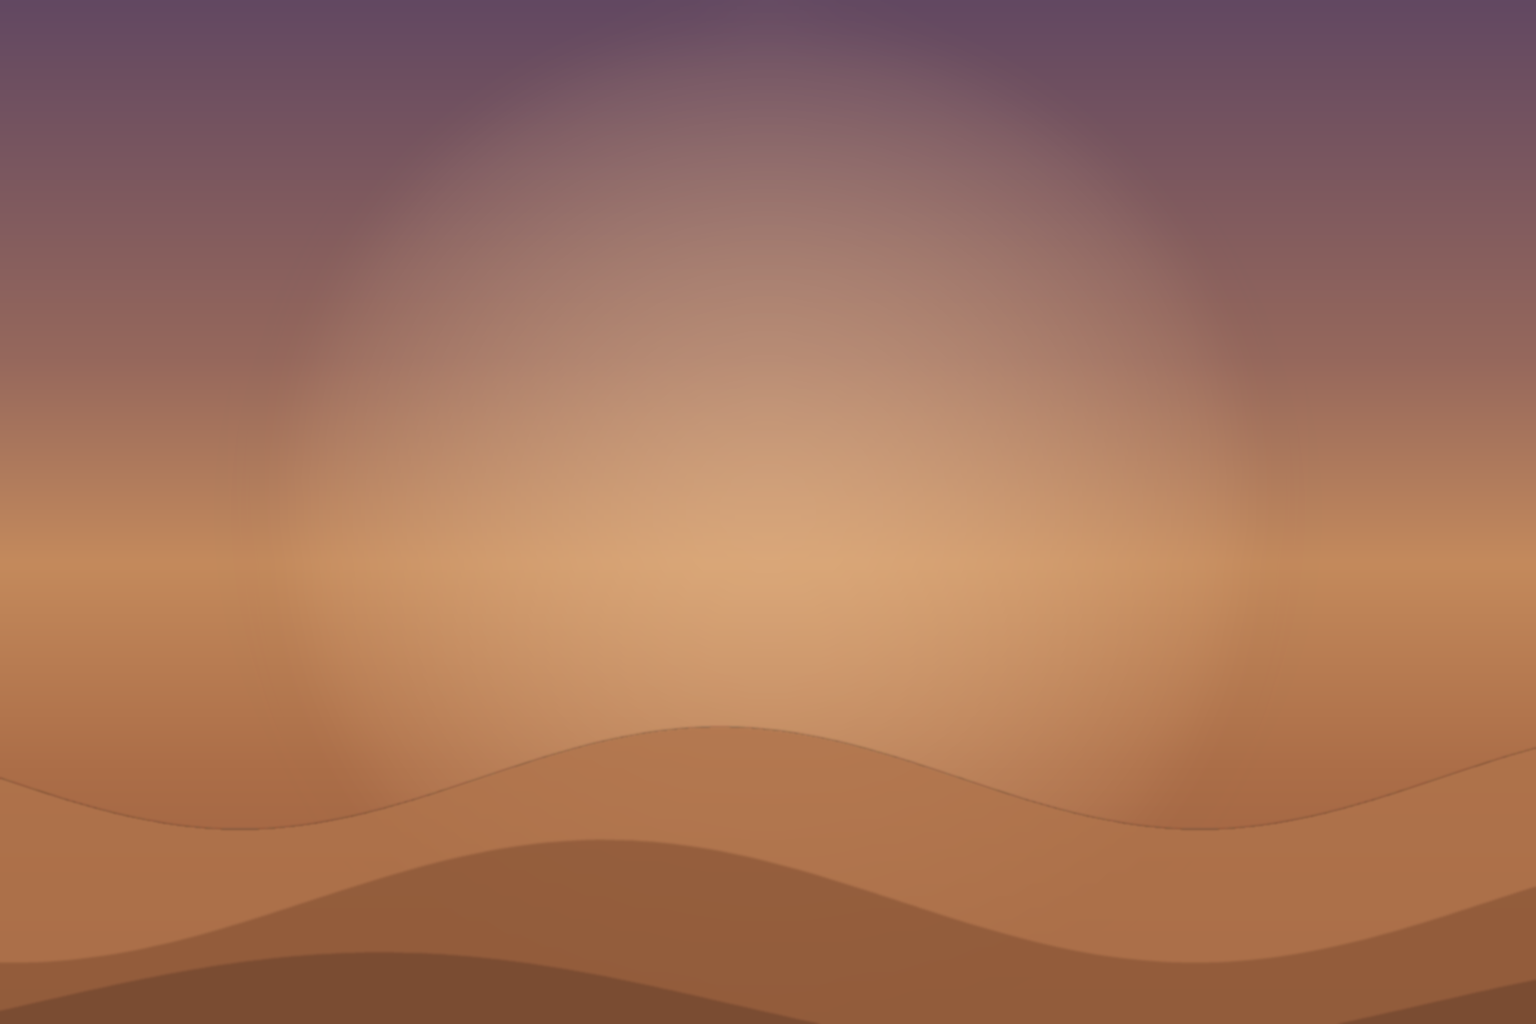
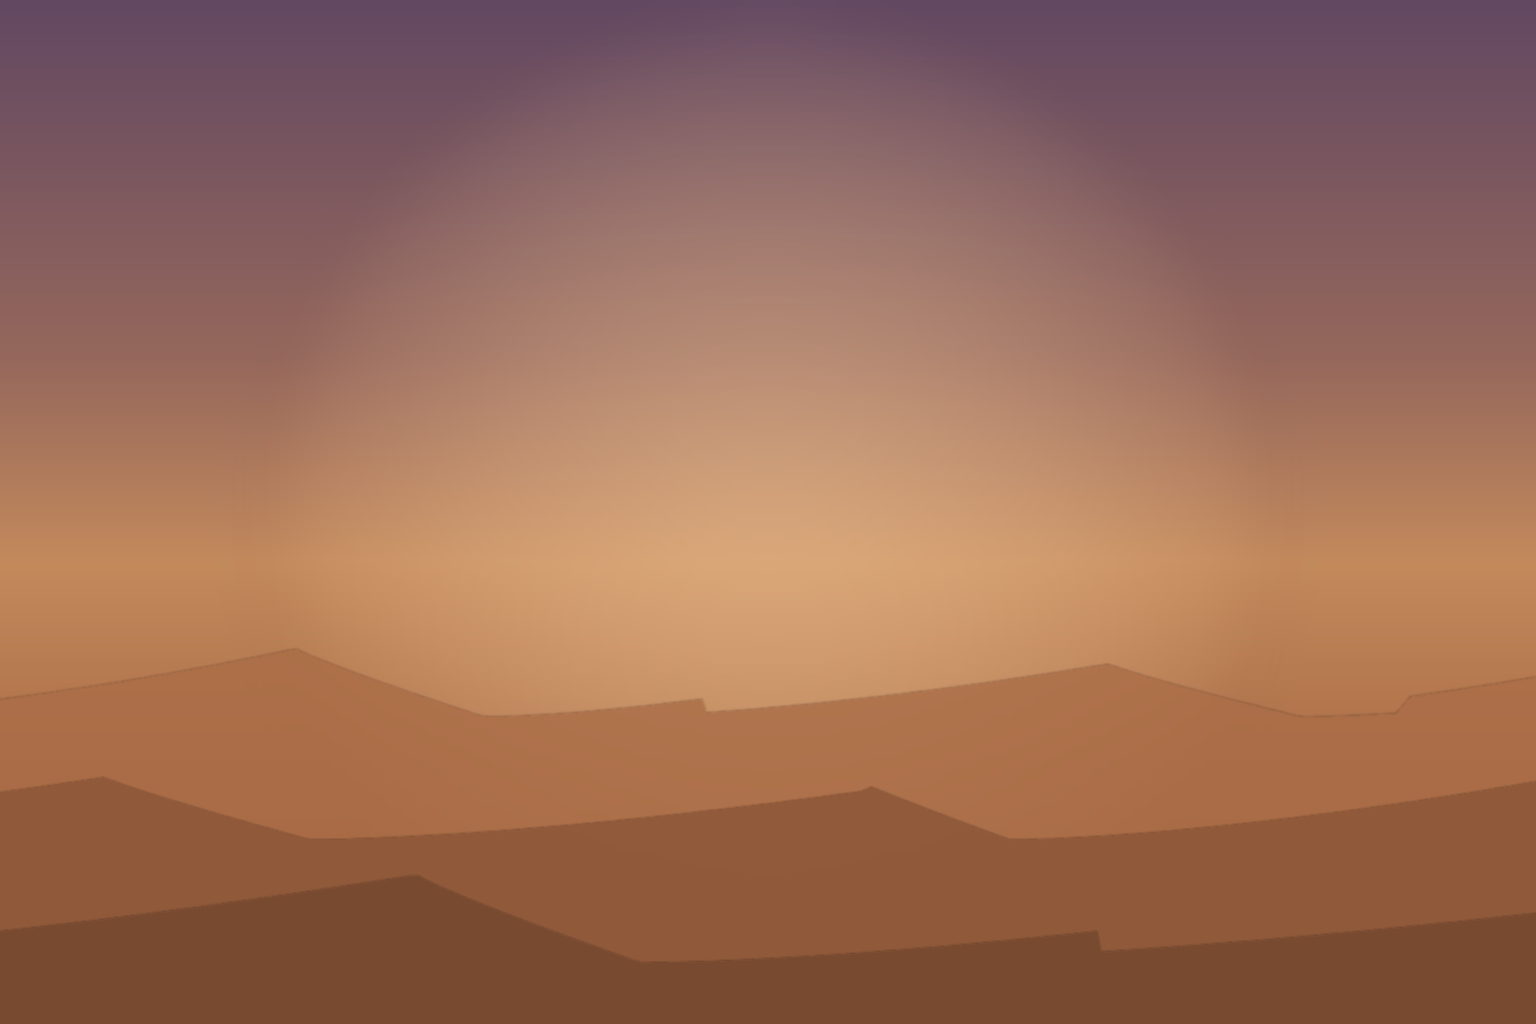
feat(pomodoro): 重做 3 张新场景背景图 (用户反馈轮)
- 沙漠: 沙丘改非对称风蚀剖面 (缓迎风坡+陡落沙面) + 逐脊起伏 + 斜向剪切, 脱离海波形态
- 雪原: 冷蓝天空 + 大气透视远山 + 雪浪蓝影, 摆脱全白留白
- 云海: 丰富日出天色 (靛→紫→玫→金) + 低垂日出光核 + 受光积云顶 + 高空散云
- 星夜: 右上角模糊光晕 → 清晰小月亮 (build_moon: 月面+淡晕)

Changed region(s): [[0.0, 0.6562, 1.0, 1.0]]

diff --git a/tools/export-scenes.py b/tools/export-scenes.py
@@ -227,6 +227,60 @@ def build_bank(layer: dict) -> Image.Image:
     return overlay.filter(ImageFilter.GaussianBlur(radius=layer.get("blur", 8)))
 
 
+def _hash_unit(v: int) -> float:
+    """Deterministic 0..1 hash of an integer (per-ridge variation)."""
+    x = (v * 1103515245 + 12345) & 0x7FFFFFFF
+    return ((x >> 16) & 0x7FFF) / 32768.0
+
+
+def build_dunes(layers: list[dict]) -> Image.Image:
+    """Asymmetric wind-blown sand dune ridges (SS x for AA).
+
+    Each layer: base_y/amp/freq/phase/skew/color/alpha/blur/shear/seed. The
+    profile is a skewed triangle wave — a long gentle windward climb
+    (fraction `skew` of the period) up to a sharp crest, then a short steep
+    slip face. Each ridge gets a seeded height/phase jitter (so the field is
+    not a uniform repeating pattern) and the whole layer shears diagonally
+    (`shear`) — dunes, not ocean swell (build_waves' symmetric, parallel,
+    horizontal sinusoid banks).
+    """
+    w, h = WIDTH * SS, HEIGHT * SS
+    result = Image.new("RGBA", SIZE, (0, 0, 0, 0))
+    for layer in layers:
+        overlay = Image.new("RGBA", (w, h), (0, 0, 0, 0))
+        draw = ImageDraw.Draw(overlay)
+        base_y = layer["base_y"] * h
+        amp = layer["amp"] * h
+        freq = layer["freq"]
+        phase = layer.get("phase", 0.0)
+        skew = layer.get("skew", 0.72)
+        shear = layer.get("shear", 0.0)
+        seed = layer.get("seed", 0xD00)
+        steps = 240
+        pts = []
+        # 扩展采样范围覆盖斜切偏移, 保证脊线剪切后仍铺满全宽 (不露画布边缘)。
+        x0 = -0.20 * w
+        x1 = 1.20 * w
+        for i in range(steps + 1):
+            x = x0 + (x1 - x0) * i / steps
+            ridge = int(x / w * freq)
+            j = _hash_unit(ridge + seed)
+            amp_i = amp * (0.72 + 0.56 * j)  # 每道沙丘高度不同
+            t = (x / w * freq + phase + 0.35 * j) % 1.0
+            if t < skew:
+                prof = (t / skew) ** 1.6  # 缓长迎风坡, 靠近脊线加速抬升
+            else:
+                prof = 1.0 - ((t - skew) / (1.0 - skew)) ** 0.9  # 陡短落沙面
+            y = base_y - amp_i * prof
+            xs = x + shear * (base_y - y)  # 斜向剪切: 脊线倾斜, 非水平平行
+            pts.append((xs, y))
+        draw.polygon(pts + [(w, h), (0, h)], fill=(*layer["color"], layer["alpha"]))
+        overlay = overlay.resize(SIZE, Image.LANCZOS)
+        overlay = overlay.filter(ImageFilter.GaussianBlur(radius=layer.get("blur", 1.0)))
+        result = Image.alpha_composite(result, overlay)
+    return result
+
+
 def build_trees(layers: list[dict]) -> Image.Image:
     """Forest treelines: dense rows of conifer triangles (SS x for AA).
 
@@ -355,14 +409,34 @@ def build_stars(cfg: dict) -> Image.Image:
     return overlay.filter(ImageFilter.GaussianBlur(radius=0.4))
 
 
+def build_moon(cfg: dict) -> Image.Image:
+    """A soft pale moon: faint halo + crisp-but-soft disc (SS x for AA).
+
+    Reads as a moon, not an unexplained glow — the disc gives it a clear
+    face and the halo a night atmosphere. Kept small and high in the sky
+    (out of the center countdown region).
+    """
+    halo = radial_overlay(
+        cfg["color"], cfg["center"], cfg["radius"] * 2.4, cfg["halo_peak"], falloff=2.0
+    )
+    w, h = WIDTH * SS, HEIGHT * SS
+    disc = Image.new("RGBA", (w, h), (0, 0, 0, 0))
+    cx, cy = cfg["center"][0] * w, cfg["center"][1] * h
+    r = cfg["radius"] * w
+    ImageDraw.Draw(disc).ellipse([cx - r, cy - r, cx + r, cy + r], fill=(*cfg["color"], 255))
+    disc = disc.resize(SIZE, Image.LANCZOS).filter(ImageFilter.GaussianBlur(radius=1.5))
+    return Image.alpha_composite(halo, disc)
+
+
 def build_clouds(layers: list[dict]) -> Image.Image:
-    """Cloud sea (viewer above the clouds): solid bank + fluffy top bumps.
+    """Cloud sea (viewer above the clouds): solid bank + cumulus top bumps.
 
     Each layer: base_y/amp/freq/phase/color/alpha/blur feed `build_bank`
-    (solid bank below a wavy top edge), plus `seed`/`r_min`/`r_max`/`step`
-    for overlapping elliptical bumps along the top edge — reads as one
-    continuous cloud field with a soft, irregular horizon rather than
-    isolated puffs. Layers composite far-to-near; far layers lighter/blurrier.
+    (solid mass below a wavy top edge), plus `seed`/`r_min`/`r_max`/`step`
+    for dense overlapping elliptical bumps and `hl` (highlight color) for a
+    small sunlit crest on each bump — reads as one continuous cloud field
+    with a cumulus top and warm-lit ridges, not a flat band.
+    Layers composite far-to-near; far layers lighter/blurrier.
     """
     result = Image.new("RGBA", SIZE, (0, 0, 0, 0))
     for layer in layers:
@@ -381,25 +455,67 @@ def build_clouds(layers: list[dict]) -> Image.Image:
         amp = layer["amp"] * h
         freq = layer["freq"]
         phase = layer.get("phase", 0.0)
-        r_min = layer.get("r_min", 0.08) * w
-        r_max = layer.get("r_max", 0.18) * w
-        step = w * layer.get("step", 0.10)
+        r_min = layer.get("r_min", 0.06) * w
+        r_max = layer.get("r_max", 0.14) * w
+        step = w * layer.get("step", 0.05)
+        hl = layer.get("hl", layer["color"])
         x = -r_max
         i = 0
         while x < w + r_max:
             cy = base_y + amp * math.sin(2.0 * math.pi * freq * i * step / w + phase)
             r = r_min + rnd() * (r_max - r_min)
-            a = int(layer["alpha"] * (0.75 + 0.25 * rnd()))
+            a = int(layer["alpha"] * (0.7 + 0.3 * rnd()))
             draw.ellipse(
-                [x - r, cy - r * 0.42, x + r, cy + r * 0.42],
+                [x - r, cy - r * 0.5, x + r, cy + r * 0.5],
                 fill=(*layer["color"], a),
             )
-            x += step * (0.8 + rnd() * 0.6)
+            # 顶部受光: 更小更亮的泡叠在主泡上缘 (阳光来自上方)。
+            hr = r * (0.45 + rnd() * 0.25)
+            ha = int(a * 0.85)
+            draw.ellipse(
+                [x - hr, cy - r * 0.55 - hr * 0.5, x + hr, cy - r * 0.55 + hr * 0.5],
+                fill=(*hl, ha),
+            )
+            x += step * (0.75 + rnd() * 0.5)
             i += 1
         overlay = overlay.resize(SIZE, Image.LANCZOS)
         overlay = overlay.filter(ImageFilter.GaussianBlur(radius=layer.get("blur", 8)))
         bank = Image.alpha_composite(bank, overlay)
         result = Image.alpha_composite(result, bank)
+    return result
+
+
+def build_puffs(layers: list[dict]) -> Image.Image:
+    """Scattered cumulus puffs floating in the sky (SS x for AA), no bank.
+
+    Each layer: count/y_lo/y_hi (band), r_min/r_max (puff width fractions),
+    color/alpha/blur/seed. Small soft ellipses read as isolated high clouds;
+    keep bands out of the center text region where possible.
+    """
+    w, h = WIDTH * SS, HEIGHT * SS
+    result = Image.new("RGBA", SIZE, (0, 0, 0, 0))
+    for layer in layers:
+        overlay = Image.new("RGBA", (w, h), (0, 0, 0, 0))
+        draw = ImageDraw.Draw(overlay)
+        state = layer["seed"]
+
+        def rnd() -> float:
+            nonlocal state
+            state = (state * 1103515245 + 12345) & 0x7FFFFFFF
+            return (state >> 16) / 32768.0
+
+        for _ in range(layer["count"]):
+            cx = w * (0.08 + rnd() * 0.84)
+            cy = h * (layer["y_lo"] + rnd() * (layer["y_hi"] - layer["y_lo"]))
+            r = w * (layer["r_min"] + rnd() * (layer["r_max"] - layer["r_min"]))
+            a = int(layer["alpha"] * (0.7 + 0.3 * rnd()))
+            draw.ellipse(
+                [cx - r, cy - r * 0.45, cx + r, cy + r * 0.45],
+                fill=(*layer["color"], a),
+            )
+        overlay = overlay.resize(SIZE, Image.LANCZOS)
+        overlay = overlay.filter(ImageFilter.GaussianBlur(radius=layer.get("blur", 6)))
+        result = Image.alpha_composite(result, overlay)
     return result
 
 
@@ -573,7 +689,7 @@ SCENES = [
             (0.72, (38, 42, 74)),
             (1.00, (16, 18, 40)),
         ],
-        "glow": {"color": (235, 235, 250), "center": (0.72, 0.16), "radius": 0.14, "peak": 130},
+        "moon": {"color": (240, 240, 252), "center": (0.72, 0.16), "radius": 0.05, "halo_peak": 70},
         "stars": {
             "count": 170, "seed": 0x51A1, "band": (0.02, 0.80),
             "colors": ((200, 212, 244), (255, 236, 190)), "big_frac": 0.10,
@@ -595,23 +711,24 @@ SCENES = [
     {
         "key": "snowfield",
         "name": "雪原",
-        # 冷白天空 → 亮雪原; 中央保持亮, 保深字对比度。远处淡山 + 近处雪浪。
+        # 冷蓝天空 → 近白雪原; 中央保持亮, 保深字对比度。大气透视远山 + 雪浪蓝影。
         "stops": [
-            (0.00, (216, 226, 234)),
-            (0.42, (205, 218, 228)),
-            (0.60, (215, 226, 234)),
-            (0.75, (228, 236, 242)),
-            (1.00, (226, 234, 240)),
+            (0.00, (160, 182, 202)),
+            (0.38, (194, 211, 224)),
+            (0.60, (218, 230, 238)),
+            (0.78, (231, 239, 245)),
+            (1.00, (223, 233, 241)),
         ],
-        "glow": {"color": (255, 255, 255), "center": (0.5, 0.08), "radius": 0.40, "peak": 25},
+        "glow": {"color": (255, 255, 255), "center": (0.5, 0.08), "radius": 0.40, "peak": 18},
         "ridges": [
-            {"base_y": 0.70, "amp": 0.05, "color": (198, 210, 220), "alpha": 120, "seed": 0x601},
+            {"base_y": 0.56, "amp": 0.04, "color": (184, 198, 213), "alpha": 145, "seed": 0x701},
+            {"base_y": 0.66, "amp": 0.05, "color": (162, 180, 198), "alpha": 180, "seed": 0x702},
         ],
         "waves": [
-            {"base_y": 0.82, "amp": 0.025, "freq": 1.5, "phase": 0.0,
-             "color": (230, 238, 244), "alpha": 190},
-            {"base_y": 0.93, "amp": 0.03, "freq": 1.2, "phase": 1.9,
-             "color": (238, 245, 250), "alpha": 230},
+            {"base_y": 0.82, "amp": 0.03, "freq": 1.4, "phase": 0.0,
+             "color": (222, 233, 241), "alpha": 200},
+            {"base_y": 0.93, "amp": 0.035, "freq": 1.1, "phase": 1.7,
+             "color": (204, 219, 232), "alpha": 240},
         ],
         "veil": {"color": (0, 0, 0), "center": (0.5, 0.48), "radius": 0.55, "peak": 0},
         "palette": {
@@ -636,13 +753,13 @@ SCENES = [
             (1.00, (150, 90, 60)),
         ],
         "glow": {"color": (255, 216, 168), "center": (0.5, 0.50), "radius": 0.34, "peak": 100},
-        "waves": [
-            {"base_y": 0.76, "amp": 0.05, "freq": 1.6, "phase": 0.0,
-             "color": (176, 116, 76), "alpha": 205},
-            {"base_y": 0.88, "amp": 0.06, "freq": 1.3, "phase": 1.5,
-             "color": (146, 92, 60), "alpha": 235},
-            {"base_y": 0.98, "amp": 0.05, "freq": 1.1, "phase": 3.0,
-             "color": (122, 76, 50), "alpha": 255},
+        "dunes": [
+            {"base_y": 0.70, "amp": 0.055, "freq": 2.2, "phase": 0.0, "skew": 0.70,
+             "shear": 0.32, "color": (170, 108, 70), "alpha": 200, "blur": 1.0, "seed": 0xD11},
+            {"base_y": 0.82, "amp": 0.065, "freq": 1.8, "phase": 0.5, "skew": 0.74,
+             "shear": 0.26, "color": (142, 88, 58), "alpha": 230, "blur": 0.8, "seed": 0xD12},
+            {"base_y": 0.94, "amp": 0.07, "freq": 1.4, "phase": 1.1, "skew": 0.78,
+             "shear": 0.20, "color": (120, 74, 48), "alpha": 255, "blur": 0.6, "seed": 0xD13},
         ],
         "veil": {"color": (0, 0, 0), "center": (0.5, 0.48), "radius": 0.55, "peak": 0},
         "palette": {
@@ -657,27 +774,33 @@ SCENES = [
     {
         "key": "cloudsea",
         "name": "云海",
-        # 日出天空 (上靛下金) → 亮云海; 中央亮, 深字对比度成立。云层基线
-        # 0.58 起, 中央采样区下部为亮云带, 上部为亮日出天空。
+        # 日出天空 (靛→紫→玫→金) + 低垂日出光核 + 云海 (受光积云顶) + 高空散云。
+        # 中央亮, 深字对比度成立; 云层基线 0.60 起。
         "stops": [
-            (0.00, (52, 58, 100)),
-            (0.12, (96, 84, 124)),
-            (0.30, (200, 148, 134)),
-            (0.52, (248, 196, 150)),
-            (0.72, (255, 212, 168)),
-            (1.00, (216, 168, 146)),
+            (0.00, (48, 52, 96)),
+            (0.14, (96, 70, 118)),
+            (0.32, (176, 118, 128)),
+            (0.50, (238, 176, 140)),
+            (0.68, (255, 214, 172)),
+            (1.00, (226, 186, 160)),
         ],
-        "glow": {"color": (255, 224, 184), "center": (0.5, 0.86), "radius": 0.42, "peak": 110},
+        "glow": {"color": (255, 236, 200), "center": (0.5, 0.52), "radius": 0.24, "peak": 170},
         "clouds": [
-            {"base_y": 0.60, "amp": 0.05, "freq": 2.0, "phase": 0.0,
-             "color": (236, 214, 206), "alpha": 190, "blur": 10,
-             "r_min": 0.08, "r_max": 0.16, "step": 0.10, "seed": 0xC01},
-            {"base_y": 0.74, "amp": 0.07, "freq": 1.6, "phase": 1.4,
-             "color": (246, 230, 220), "alpha": 230, "blur": 8,
-             "r_min": 0.09, "r_max": 0.20, "step": 0.11, "seed": 0xC02},
-            {"base_y": 0.90, "amp": 0.08, "freq": 1.2, "phase": 2.8,
-             "color": (252, 242, 232), "alpha": 255, "blur": 6,
-             "r_min": 0.10, "r_max": 0.24, "step": 0.12, "seed": 0xC03},
+            {"base_y": 0.60, "amp": 0.04, "freq": 2.4, "phase": 0.0,
+             "color": (240, 216, 200), "hl": (252, 236, 220), "alpha": 180, "blur": 14,
+             "r_min": 0.05, "r_max": 0.11, "step": 0.05, "seed": 0xC11},
+            {"base_y": 0.74, "amp": 0.06, "freq": 1.7, "phase": 1.2,
+             "color": (248, 228, 214), "hl": (255, 242, 228), "alpha": 220, "blur": 9,
+             "r_min": 0.06, "r_max": 0.14, "step": 0.06, "seed": 0xC12},
+            {"base_y": 0.90, "amp": 0.06, "freq": 1.2, "phase": 2.4,
+             "color": (253, 240, 230), "hl": (255, 248, 238), "alpha": 255, "blur": 5,
+             "r_min": 0.07, "r_max": 0.16, "step": 0.07, "seed": 0xC13},
+        ],
+        "puffs": [
+            {"count": 8, "y_lo": 0.06, "y_hi": 0.24, "r_min": 0.03, "r_max": 0.07,
+             "color": (250, 226, 210), "alpha": 150, "blur": 5, "seed": 0xC21},
+            {"count": 5, "y_lo": 0.26, "y_hi": 0.36, "r_min": 0.04, "r_max": 0.09,
+             "color": (252, 234, 218), "alpha": 170, "blur": 6, "seed": 0xC22},
         ],
         "veil": {"color": (0, 0, 0), "center": (0.5, 0.48), "radius": 0.55, "peak": 0},
         "palette": {
@@ -694,10 +817,11 @@ SCENES = [
 
 def build_scene(cfg: dict) -> Image.Image:
     img = build_gradient(cfg["stops"]).convert("RGBA")
-    g = cfg["glow"]
-    img = Image.alpha_composite(
-        img, radial_overlay(g["color"], g["center"], g["radius"], g["peak"])
-    )
+    if "glow" in cfg:
+        g = cfg["glow"]
+        img = Image.alpha_composite(
+            img, radial_overlay(g["color"], g["center"], g["radius"], g["peak"])
+        )
     if "ridges" in cfg:
         img = Image.alpha_composite(img, build_ridges(cfg["ridges"]))
     if "waves" in cfg:
@@ -711,8 +835,14 @@ def build_scene(cfg: dict) -> Image.Image:
         img = Image.alpha_composite(img, build_embers(e["count"], e["color"], e["seed"]))
     if "stars" in cfg:
         img = Image.alpha_composite(img, build_stars(cfg["stars"]))
+    if "moon" in cfg:
+        img = Image.alpha_composite(img, build_moon(cfg["moon"]))
+    if "dunes" in cfg:
+        img = Image.alpha_composite(img, build_dunes(cfg["dunes"]))
     if "clouds" in cfg:
         img = Image.alpha_composite(img, build_clouds(cfg["clouds"]))
+    if "puffs" in cfg:
+        img = Image.alpha_composite(img, build_puffs(cfg["puffs"]))
     v = cfg["veil"]
     img = Image.alpha_composite(
         img, radial_overlay(v["color"], v["center"], v["radius"], v["peak"])

diff --git a/examples/pomodoro/scenes.rs b/examples/pomodoro/scenes.rs
@@ -101,8 +101,8 @@ pub const SCENES: [SceneSpec; 9] = [
             text_secondary: Color::from_srgb8(80, 95, 110),
             surface: Color::rgba(1.0, 1.0, 1.0, 0.55),
             surface_input: Color::rgba(1.0, 1.0, 1.0, 0.85),
-            backdrop_light: Color::from_srgb8(219, 229, 236),
-            backdrop_dark: Color::from_srgb8(206, 219, 229),
+            backdrop_light: Color::from_srgb8(212, 226, 235),
+            backdrop_dark: Color::from_srgb8(177, 194, 209),
         },
     },
     SceneSpec {
@@ -129,8 +129,8 @@ pub const SCENES: [SceneSpec; 9] = [
             text_secondary: Color::from_srgb8(120, 85, 95),
             surface: Color::rgba(1.0, 1.0, 1.0, 0.5),
             surface_input: Color::rgba(1.0, 1.0, 1.0, 0.8),
-            backdrop_light: Color::from_srgb8(243, 226, 214),
-            backdrop_dark: Color::from_srgb8(211, 160, 138),
+            backdrop_light: Color::from_srgb8(250, 232, 216),
+            backdrop_dark: Color::from_srgb8(175, 124, 124),
         },
     },
 ];
